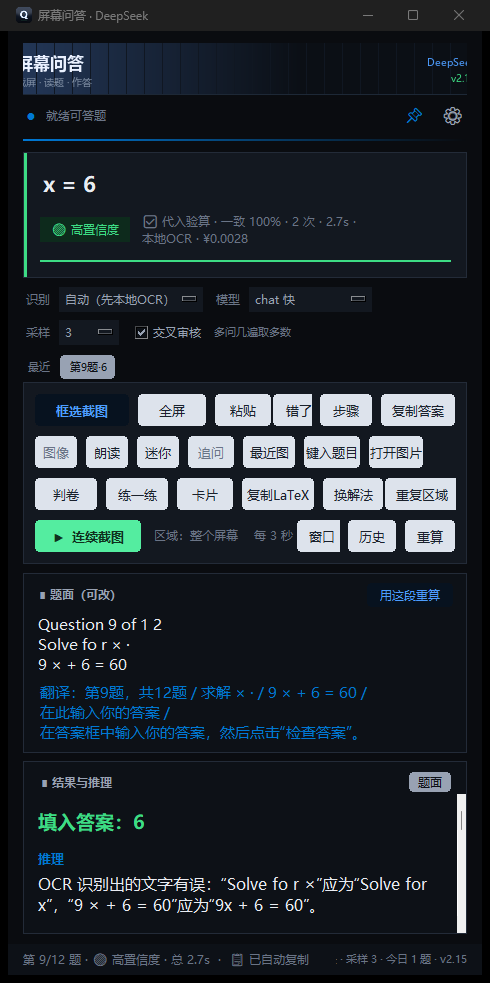
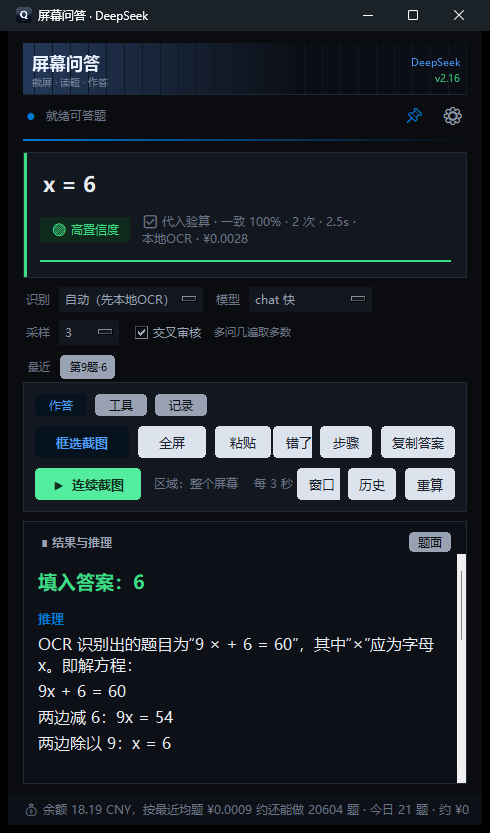
v2.16 三页分区与趣味徽章

diff --git a/app.py b/app.py
@@ -1208,7 +1208,18 @@ class App:
         controls.pack(fill="x", pady=(2, 9), before=det)
         cpad = tk.Frame(controls, bg=UI["card"])
         cpad.pack(fill="x", padx=10, pady=10)
-        bar = tk.Frame(cpad, bg=UI["card"])
+        # ---- 分组标签：作答 / 工具 / 记录（一页只显示一组，窗口更清爽）
+        tabs = tk.Frame(cpad, bg=UI["card"])
+        tabs.pack(fill="x", pady=(0, 8))
+        self.tab_pills = {}
+        for _name in ("\u4f5c\u7b54", "\u5de5\u5177", "\u8bb0\u5f55"):
+            _p = Pill(tabs, _name, lambda n=_name: self._show_page(n),
+                      kind="flat", width=54, height=24, font_size=9)
+            _p.pack(side="left", padx=(0, 6))
+            self.tab_pills[_name] = _p
+        self.pages = {_n: tk.Frame(cpad, bg=UI["card"])
+                      for _n in ("\u4f5c\u7b54", "\u5de5\u5177", "\u8bb0\u5f55")}
+        bar = tk.Frame(self.pages["\u4f5c\u7b54"], bg=UI["card"])
         bar.pack(fill="x")
         self.b_region = Pill(bar, prompts.L("capture"), self.shot_region, kind="primary",
                              bold=True, width=96)
@@ -1228,8 +1239,8 @@ class App:
         self.b_bad.set_enabled(False)
 
         # 第三行：函数图像 / 朗读 / 迷你浮窗
-        bar3 = tk.Frame(cpad, bg=UI["card"])
-        bar3.pack(fill="x", pady=(8, 0))
+        bar3 = tk.Frame(self.pages["\u5de5\u5177"], bg=UI["card"])
+        bar3.pack(fill="x")
         self.b_plot = Pill(bar3, prompts.L("plot"), self.show_plot, kind="ghost", width=44)
         self.b_plot.pack(side="left")
         self.b_plot.set_enabled(False)
@@ -1253,7 +1264,7 @@ class App:
         self.b_open.pack(side="left", padx=(7, 0))
 
         # 第四行：判卷 / 练一练 / 导出卡片 / 重复上次区域
-        bar4 = tk.Frame(cpad, bg=UI["card"])
+        bar4 = tk.Frame(self.pages["\u5de5\u5177"], bg=UI["card"])
         bar4.pack(fill="x", pady=(8, 0))
         self.b_judge = Pill(bar4, prompts.JUDGE_LABEL, self.judge_answer,
                             kind="ghost", width=64)
@@ -1287,7 +1298,7 @@ class App:
         self.hist_bar = tk.Frame(wrap, bg=bg)
         self.hist_bar.pack(fill="x", before=controls)
 
-        bar2 = tk.Frame(cpad, bg=UI["card"])
+        bar2 = tk.Frame(self.pages["\u4f5c\u7b54"], bg=UI["card"])
         bar2.pack(fill="x", pady=(8, 0))
         self.b_cont = Pill(bar2, prompts.L("cont"), self.toggle_continuous,
                            kind="success", bold=True, width=108)
@@ -1310,6 +1321,20 @@ class App:
         self.b_win = Pill(bar2, prompts.L("win"), self.capture_window_menu, kind="ghost", width=52)
         self.b_win.pack(side="right", padx=(0, 7))
 
+        _rec = self.pages["\u8bb0\u5f55"]
+        _r1 = tk.Frame(_rec, bg=UI["card"])
+        _r1.pack(fill="x")
+        for _txt, _cmd in ((prompts.LBL_LEDGER, self.open_ledger),
+                           (prompts.L("history"), self.open_history),
+                           (prompts.QUEUE_LABEL, self.retry_queue),
+                           ("\u81ea\u68c0", self.selfcheck),
+                           ("\u89c6\u89c9\u81ea\u68c0", self._vision_selftest)):
+            _p = Pill(_r1, _txt, _cmd, kind="ghost", width=64 if len(_txt) > 3 else 52)
+            _p.pack(side="left", padx=(0, 7))
+        tk.Label(_rec, text="\u8bb0\u5f55\u5728 records.jsonl / errors.json / history\uff0c\u4e0d\u4f1a\u4e0a\u4f20",
+                 bg=UI["card"], fg=UI["muted"], font=(FONT, 8)).pack(anchor="w", pady=(8, 0))
+        self._show_page("\u4f5c\u7b54")
+
         # ---- 状态栏
         st = tk.Frame(self.root, bg=UI["card2"])
         st.pack(fill="x", side="bottom", before=wrap)
@@ -1319,6 +1344,19 @@ class App:
         self.st_right = tk.Label(st, text="", bg=UI["card2"], fg=UI["muted"],
                                  font=(FONT, 8), anchor="e")
         self.st_right.pack(side="right", padx=12)
+
+    def _show_page(self, name):
+        """切到某一组按钮（作答 / 工具 / 记录）。"""
+        for n_, f_ in getattr(self, "pages", {}).items():
+            if n_ == name:
+                f_.pack(fill="x")
+            else:
+                f_.pack_forget()
+        for n_, pill_ in getattr(self, "tab_pills", {}).items():
+            try:
+                pill_.set_kind("primary" if n_ == name else "flat")
+            except Exception:  # noqa: BLE001
+                pass
 
     @staticmethod
     def _style_optionmenu(menu_btn, width=12):
@@ -2112,6 +2150,8 @@ class App:
         except Exception:  # noqa: BLE001
             pass
         self._today_count = (getattr(self, "_today_count", 0) or 0) + 1
+        if not hasattr(self, "_today_cost"):
+            self._today_cost = 0.0
         bits = [f"一致 {res.agreement:.0%}",
                 f"{sum(i.calls for i in items)} 次",
                 f"{payload['elapsed']:.1f}s",
@@ -2248,6 +2288,49 @@ class App:
             })
         except Exception:  # noqa: BLE001
             pass
+
+    def selfcheck(self):
+        """一键自检：Key / 余额 / OCR / 视觉后端 / 热键（写进详情框，不花钱）。"""
+        lines = []
+        key = str(self.cfg.get("api_key") or "")
+        lines.append(("\u2705" if key.startswith("sk-") and len(key) > 20 else "\u274c")
+                     + f" API Key\uff1a\u5c3e\u53f7 {key[-4:]}" if key else "\u274c API Key\uff1a\u672a\u586b")
+        try:
+            bal = DeepSeekClient(key, self.cfg.get("base_url", cfg_mod.DEFAULTS["base_url"]),
+                                 self.cfg.get("model", cfg_mod.DEFAULTS["model"])).balance()
+            if bal.get("ok"):
+                lines.append(f"\u2705 \u4f59\u989d\uff1a{bal.get('amount')} {bal.get('currency')}")
+            else:
+                lines.append(f"\u26a0 \u4f59\u989d\u67e5\u8be2\u5931\u8d25\uff1a{bal.get('error')}")
+        except Exception as exc:  # noqa: BLE001
+            lines.append(f"\u26a0 \u4f59\u989d\u67e5\u8be2\u5f02\u5e38\uff1a{exc}")
+        try:
+            import psocr
+            ok = psocr.available()
+            lines.append(("\u2705" if ok else "\u274c") + " \u672c\u5730 OCR\uff08Windows.Media.Ocr\uff09")
+        except Exception as exc:  # noqa: BLE001
+            lines.append(f"\u274c \u672c\u5730 OCR\uff1a{exc}")
+        try:
+            st = reader.backend_status()
+            mv = st.get("modlens") or {}
+            lines.append(("\u2705 \u89c6\u89c9\uff1a" if mv.get("available") else "\u26a0 \u89c6\u89c9\u4e0d\u53ef\u7528\uff1a")
+                         + str(mv.get("detail") or "")[:60])
+        except Exception as exc:  # noqa: BLE001
+            lines.append(f"\u26a0 \u89c6\u89c9\u68c0\u6d4b\u5f02\u5e38\uff1a{exc}")
+        try:
+            bound = ", ".join(f"{k}={v}" for k, v in (self.hk.bound or {}).items())
+            lines.append(f"\u2328 \u70ed\u952e\uff1a{bound or '\u672a\u6ce8\u518c'}")
+        except Exception:  # noqa: BLE001
+            pass
+        st = cfg_mod.daily_stats(self.cfg)
+        lines.append(f"\U0001f4b0 \u4eca\u65e5\uff1a{st.get('count')} \u9898\u00b7\u00a5{float(st.get('cost') or 0):.4f}")
+        text = "\n".join(lines)
+        self._set_detail("\u25ae \u81ea\u68c0\n" + text)
+        try:
+            messagebox.showinfo("\u81ea\u68c0", text[:900])
+        except Exception:  # noqa: BLE001
+            pass
+        return text
 
     def _vision_selftest(self) -> str:
         """跑一次真实的视觉识别，把成功/失败原因原样报给用户。"""
@@ -3253,7 +3336,11 @@ class App:
         self.ans.configure(text="按 Ctrl+Alt+Q 圈住题目", fg=UI["dim"])
         self.chip.configure(text="待命", bg=UI["card2"], fg=UI["muted"])
         self.edge.configure(bg=UI["accent"])
-        self.meta.configure(text="")
+        try:
+            self._quip_i = (getattr(self, "_quip_i", 0) + 1) % len(prompts.QUIPS)
+            self.meta.configure(text=prompts.QUIP_PREFIX + prompts.QUIPS[self._quip_i])
+        except Exception:  # noqa: BLE001
+            self.meta.configure(text="")
         self.b_copy.set_enabled(False)
         self.b_redo.set_enabled(False)
         self.multi_items = []

diff --git a/prompts.py b/prompts.py
@@ -139,7 +139,7 @@ MSG_LATEX_COPIED = "已复制 LaTeX。"
 MSG_QUEUE_EMPTY = "没有待重试的任务。"
 MSG_QUEUE_ADDED = "已存进待重试队列（本地），网络恢复后点「待重试」重跑。"
 MSG_QUEUE_RUN = "开始重跑待重试队列…"
-VERSION_LABEL = "v2.15"
+VERSION_LABEL = "v2.16"
 LBL["ok"] = ("开始作答", "Solve")
 LBL["cancel"] = ("取消", "Cancel")
 LBL["queue"] = ("待重试", "Queue")
@@ -158,3 +158,14 @@ LBL_EXCERPT = "题面"
 LBL_RECALC = "用这段重算"
 LBL_LEDGER = "账本"
 LBL_TRANSLATE = "翻译"
+
+# ---- 趣味文案（v2.16）：待机时的"小问"提示，轮换显示
+QUIP_PREFIX = "小问："
+QUIPS = (
+    "框一下题目，我来算。",
+    "看不清的字符可以改题面再重算。",
+    "选择题我会把选项代回去验一遍。",
+    "英文题我顺手翻成中文。",
+    "算完按 Ctrl+V 就贴进答案框。",
+    "我算完会自己验算一次，别急。",
+)

diff --git a/tools/make_banner.py b/tools/make_banner.py
@@ -4,7 +4,7 @@ from PIL import Image, ImageDraw, ImageFont
 
 ROOT = pathlib.Path(__file__).resolve().parents[1]
 OUT = ROOT / "assets" / "banner.png"
-W, H = 490, 52
+W, H = 458, 52
 FONT = r"C:\Windows\Fonts\msyhbd.ttc"
 FONT2 = r"C:\Windows\Fonts\msyh.ttc"
 
@@ -29,7 +29,7 @@ def main() -> int:
     d.text((16, 8), "屏幕问答", font=f1, fill="#eaf1ff")
     d.text((16, 32), "截屏 · 读题 · 作答", font=f2, fill="#7f8ea3")
     d.text((W - 14, 12), "DeepSeek", font=f2, fill="#4d9dff", anchor="ra")
-    d.text((W - 14, 28), "v2.15", font=f2, fill="#3ddc84", anchor="ra")
+    d.text((W - 14, 28), "v2.16", font=f2, fill="#3ddc84", anchor="ra")
     d.line([(0, H - 1), (W, H - 1)], fill="#1d2836")
     OUT.parent.mkdir(parents=True, exist_ok=True)
     img.save(OUT)

diff --git a/README.md b/README.md
@@ -482,3 +482,14 @@ python tools/regress_offline.py           # 回放：只验判定与验算逻辑
 
 - 交互思路参考了朋友的 [SpellCardHomework / 符卡作业簿](https://github.com/Jerry9335/SpellCardHomework)（MIT）：LaTeX→符号渲染、英文题翻译、"摘录可改→改完重算"的三段式、用量账本、启动横幅。我们按其思路重写实现，未复用其代码与素材。
 - **没有**照搬它的 CDP 全自动网页答题与一机一码授权：前者涉及"代交作业"边界且要引入 websocket 依赖，后者与 MIT 免费发布冲突。
+
+### v2.16：三页分区（作答 / 工具 / 记录）
+
+| 作答页 | 工具页 | 记录页 |
+|---|---|---|
+| ![作答](docs/screenshots/main-answer.png) | ![工具](docs/screenshots/tab-tools.png) | ![记录](docs/screenshots/tab-records.png) |
+
+- 一页只显示一组按钮，窗口高度从 983 降到 **833**，详情区更宽裕；
+- 答案卡底部徽章：`🎯 一击命中`（自适应单次通过）、`✅ 代入验算`、`🤝 双模型一致`、`⚡ 缓存`、`¥0.0025`；
+- 待机时答案卡显示轮换提示（"小问：框一下题目，我来算。"）；
+- 顶栏横幅自绘（`tools/make_banner.py`），右侧显示当前版本。
